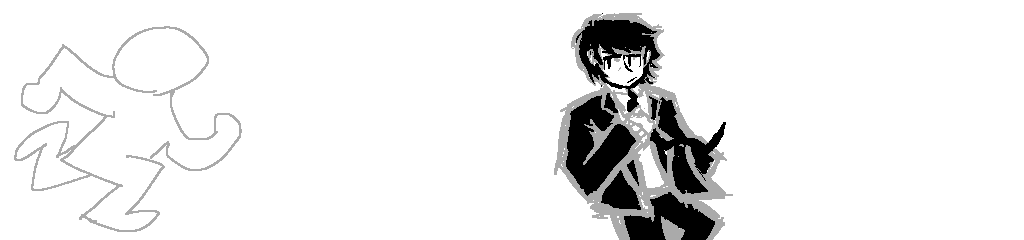
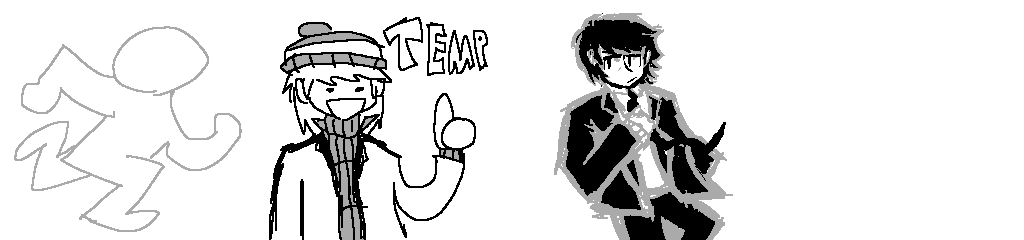
Francis added

Changed region(s): [[0.25, 0.0583, 0.5, 1.0], [0.4062, 0.3792, 0.4375, 0.4083]]

diff --git a/src/main.cpp b/src/main.cpp
@@ -18,7 +18,7 @@ std::mt19937 gen(rd());
 short combo=0,roundframecount=0;
 static unsigned char animlib[16][128][32][2]=
             {
-                {
+                {//char 0
                     {
                     {2,3},{1,3},
 
@@ -444,9 +444,43 @@ static unsigned char animlib[16][128][32][2]=
                     {17,13},
                     {255,255}
                     }//projectile end3(60)
-                   },//char 0
-                   {255,255},//char 1
-                   {
+                   },
+                   {//char 1
+                    {//idle1 (0)
+                    {2,4},{1,4},
+
+                    {0,0},{1,0},
+                    {0,1},{1,1},
+                    {0,2},{1,2},
+                    {0,3},{1,3}
+                    },
+                    {//idle2 (1)
+                    {2,4},{1,4},
+
+                    {2,0},{3,0},
+                    {2,1},{3,1},
+                    {2,2},{3,2},
+                    {2,3},{3,3}
+                    },
+                    {//idle3 (2)
+                    {2,4},{1,4},
+
+                    {4,0},{5,0},
+                    {4,1},{5,1},
+                    {4,2},{5,2},
+                    {4,3},{5,3}
+                    },
+                    {//stand light1(3)
+                    {3,4},{1,4},
+
+                    {0,0},{1,0},{255,255},
+                    {0,1},{1,1},{255,255},
+                    {0,2},{1,4},{2,4},
+                    {0,5},{1,5},{0,4}
+                    },
+                    
+                   },
+                   {//char2(Sinclair)
                     {
                     {2,4},{1,4},
 
@@ -1231,10 +1265,10 @@ static unsigned char animlib[16][128][32][2]=
                     {28,15},{29,15},
                     {28,16},{29,16}
                     },//jump heavy2(98)
-                   }//char2(Sinclair)
+                   }
                 },
                    hurtboxcount[16][256]={{2,3,3,2,2,2,3,3,2,2,3,3,2,3,3,2,2,2,2,0,2,2,2,2,3,3,2,3,3,3,3,3,2,2,0,2,3,3,2,2,2,3,3,2,2,2,2,2,2,2,3,3,3,2,1,1,2,2,1,1,1},
-                    {0},//char1
+                    {2,2,2},//char1
                     {2,2,2,3,3,3,2,2,2,2,2,2,2,2,2,2,2,2,2,2,3,3,2,3,3,2,2,3,3,3,3,3,3,3,3,3,3,3,3,2,2,2,1,1,2,2,2,3,3,3,3,3,3,2,2,3,2,2,3,3,
                     2,2,2,3,3,3,2,2,2,2,2,2,2,3,0,3,3,2,2,2,2,2,2,2,2,2,2,2,2,2,2,2,2,2,2,2,2,2,2},//char2(Sinclair)
                     },
@@ -1279,7 +1313,7 @@ colbox[16][8][1][2][2]={
                     },//char 2(Sinclair)
                     },
 hurtbox[16][128][8][2][2]={
-                    {
+                    {//char 0
                     {{{-11,0},{11,32}},{{-7,-15},{9,0}}},/*idle (0)*/
                     {{{-11,0},{11,32}},{{-7,-15},{9,0}},{{4,0},{18,9}}},/*stand u1 (1)*/{{{-11,0},{11,32}},{{-7,-15},{9,0}},{{4,0},{20,6}}},/*stand u2 (2)*/
                     {{{-11,0},{14,32}},{{-7,-15},{9,0}}},/*stand i1 (3)*/{{{-11,0},{15,32}},{{-7,-15},{9,0}}},/*stand i2 (4)*/{{{-11,0},{14,32}},{{-7,-15},{9,0}}},/*stand i3 (5)*/
@@ -1307,9 +1341,10 @@ hurtbox[16][128][8][2][2]={
                     {{{0,-4},{13,12}}},/*projectile1(54)*/{{{0,-4},{13,12}}},/*projectile2(55)*/
                     {{{-11,0},{11,32}},{{-7,-15},{9,0}}},/*hit2 (56)*/{{{-11,9},{13,32}},{{-7,-6},{9,9}}},/*crouch hit2(57)*/
                     {-1},/*projectile end1(58)*/{-1},/*projectile end2(59)*/{-1},/*projectile end3(60)*/
-                    },//char 0
-                    {-1},//char 1
-                    {
+                    },
+                    {//char 1
+                    {{{-9,-10},{9,32}},{{-7,-25},{7,-10}}},/*idle1 (0)*/{{{-9,-10},{9,32}},{{-7,-25},{7,-10}}},/*idle2 (1)*/{{{-9,-10},{9,32}},{{-7,-25},{7,-10}}},/*idle3 (2)*/},
+                    {//char 2(Sinclair)
                     {{{-11,-16},{11,32}},{{-8,-31},{8,-16}}},/*idle (0)*/{{{-11,0},{16,32}},{{-1,-15},{15,0}}},/*crouch (1)*/
                     {{{-11,-16},{11,32}},{{-8,-31},{8,-16}}},/*stand u1 (2)*/{{{-11,-16},{11,32}},{{-8,-31},{8,-16}},{{4,-14},{24,-4}}},/*stand u2 (3)*/
                     {{{-11,0},{16,32}},{{-1,-15},{15,0}},{{4,0},{30,14}}},/*crouch u1 (4)*/{{{-11,0},{16,32}},{{-1,-15},{15,0}},{{4,0},{35,8}}},/*crouch u2 (5)*/
@@ -1352,7 +1387,7 @@ hurtbox[16][128][8][2][2]={
                     {{{-11,-16},{11,32}},{{-8,-31},{8,-16}}},/*run3 (93)*/{{{-11,-16},{11,32}},{{-8,-31},{8,-16}}},/*run4 (94)*/
                     {{{-11,-16},{11,32}},{{-8,-31},{8,-16}}},/*run5 (95)*/{{{-11,-16},{11,32}},{{-8,-31},{8,-16}}},/*run6 (96)*/
                     {{{-11,-16},{11,32}},{{-8,-31},{8,-16}}},/*jump heavy1 (97)*/{{{-11,-16},{11,32}},{{-8,-31},{8,-16}}},/*jump heavy2 (98)*/
-                    },//char 2(Sinclair)
+                    },
                     },
 hitbox[16][16][4][2][2]={
                     {{0},//idle (0)
@@ -3503,7 +3538,7 @@ void characterdata(player *p,float enemyx,float enemyy,float *enemypaway,short e
         else P.block=-1;
         switch (P.character){
         case 0:{
-            switch (P.act){
+            switch(P.act){
             case 0:{//neutural
                 if(!P.air){
                     if(P.x<enemyx)P.right=true;
@@ -3825,6 +3860,19 @@ void characterdata(player *p,float enemyx,float enemyy,float *enemypaway,short e
                 if(P.right)P.jumpx=-9;else P.jumpx=9;
                 break;
                 }
+            }
+            break;
+        }
+        case 1:{//Francis
+            switch(P.act){
+            case 0:{//neatural
+                if(!P.air){
+                    if(P.x<enemyx)P.right=true;else P.right=false;
+                    if(P.idleanim.empty())P.idleanim.insert(P.idleanim.begin(),{0,0,0,0,0,0,0,0,0,0,1,1,1,1,1,1,1,1,1,1,2,2,2,2,2,2,2,2,2,2});
+                }
+                P.col=0;P.frame=0;P.block=-1;
+                break;
+            }
             }
             break;
         }
@@ -4810,9 +4858,11 @@ void drawstuff(sf::RenderWindow& window,sf::RenderTexture& renderTexture,player 
     if(superstop>0){renderTexture.draw(pixelshadowthing);
     if(P1.super){shader.setUniform("color1",float(colorpalettes[p1color][0]));
         shader.setUniform("color3",float(colorpalettes[p1color][1]));
+        shader.setUniform("color4",float(colorpalettes[p1color][2]));
         shader.setUniform("color2",float(colorpalettes[p1color][2]));}
     else if(P2.super){shader.setUniform("color1",float(colorpalettes[p2color][0]));
         shader.setUniform("color3",float(colorpalettes[p2color][1]));
+        shader.setUniform("color4",float(colorpalettes[p2color][2]));
         shader.setUniform("color2",float(colorpalettes[p2color][2]));
     }
     renderTexture.draw(sf,&shader);}
@@ -4826,6 +4876,7 @@ void drawstuff(sf::RenderWindow& window,sf::RenderTexture& renderTexture,player 
         if((P2.character==2&&(P2.gimmick[0]>0||P2.gimmick[1]>0)))for(short i=0;i<3;i++)colorpalettes[p1color][i]=15-colorpalettes[p1color][i];
         shader.setUniform("color1",float(colorpalettes[p1color][0]));
         shader.setUniform("color3",float(colorpalettes[p1color][1]));
+        shader.setUniform("color4",float(colorpalettes[p1color][2]));
         shader.setUniform("color2",float(colorpalettes[p1color][2]));
         if((P2.character==2&&(P2.gimmick[0]>0||P2.gimmick[1]>0)))for(short i=0;i<3;i++)colorpalettes[p1color][i]=15-colorpalettes[p1color][i];
         renderTexture.draw(p1graphics,&shader);
@@ -4843,6 +4894,7 @@ void drawstuff(sf::RenderWindow& window,sf::RenderTexture& renderTexture,player 
     if((P1.character==2&&(P1.gimmick[0]>0||P1.gimmick[1]>0)))for(short i=0;i<3;i++)colorpalettes[p2color][i]=15-colorpalettes[p2color][i];
         shader.setUniform("color1",float(colorpalettes[p2color][0]));
         shader.setUniform("color3",float(colorpalettes[p2color][1]));
+        shader.setUniform("color4",float(colorpalettes[p2color][2]));
         shader.setUniform("color2",float(colorpalettes[p2color][2]));
     if((P1.character==2&&(P1.gimmick[0]>0||P1.gimmick[1]>0)))for(short i=0;i<3;i++)colorpalettes[p2color][i]=15-colorpalettes[p2color][i];
     renderTexture.draw(p2graphics,&shader);
@@ -4860,6 +4912,7 @@ void drawstuff(sf::RenderWindow& window,sf::RenderTexture& renderTexture,player 
         if((P2.character==2&&(P2.gimmick[0]>0||P2.gimmick[1]>0)))for(short i=0;i<3;i++)colorpalettes[p1color][i]=15-colorpalettes[p1color][i];
         shader.setUniform("color1",float(colorpalettes[p1color][0]));
         shader.setUniform("color3",float(colorpalettes[p1color][1]));
+        shader.setUniform("color4",float(colorpalettes[p1color][2]));
         shader.setUniform("color2",float(colorpalettes[p1color][2]));
         if((P2.character==2&&(P2.gimmick[0]>0||P2.gimmick[1]>0)))for(short i=0;i<3;i++)colorpalettes[p1color][i]=15-colorpalettes[p1color][i];
         renderTexture.draw(p1graphics,&shader);
